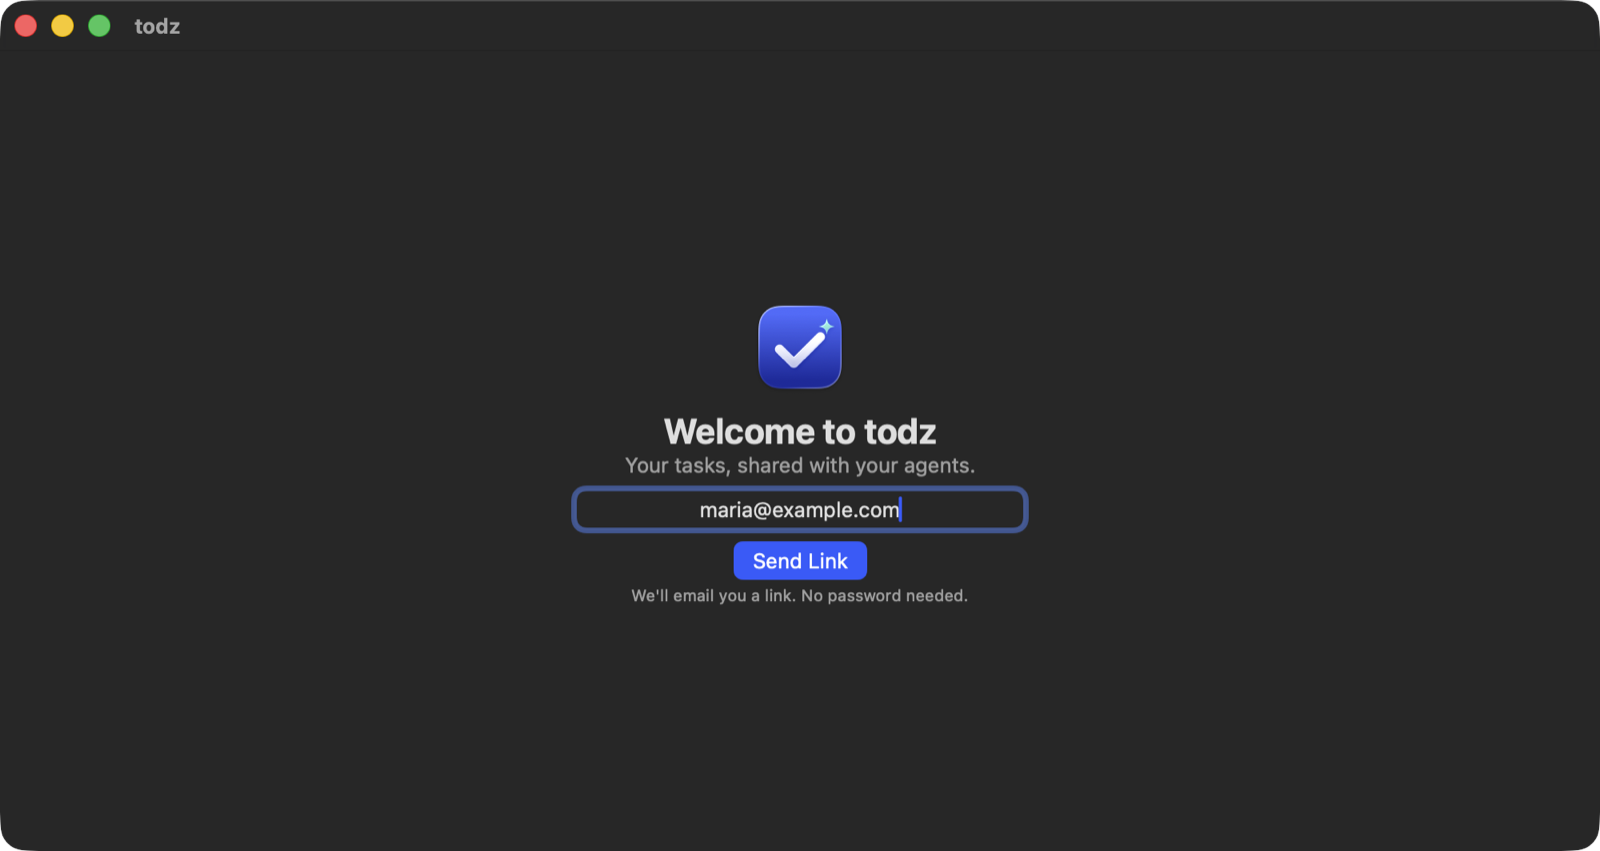
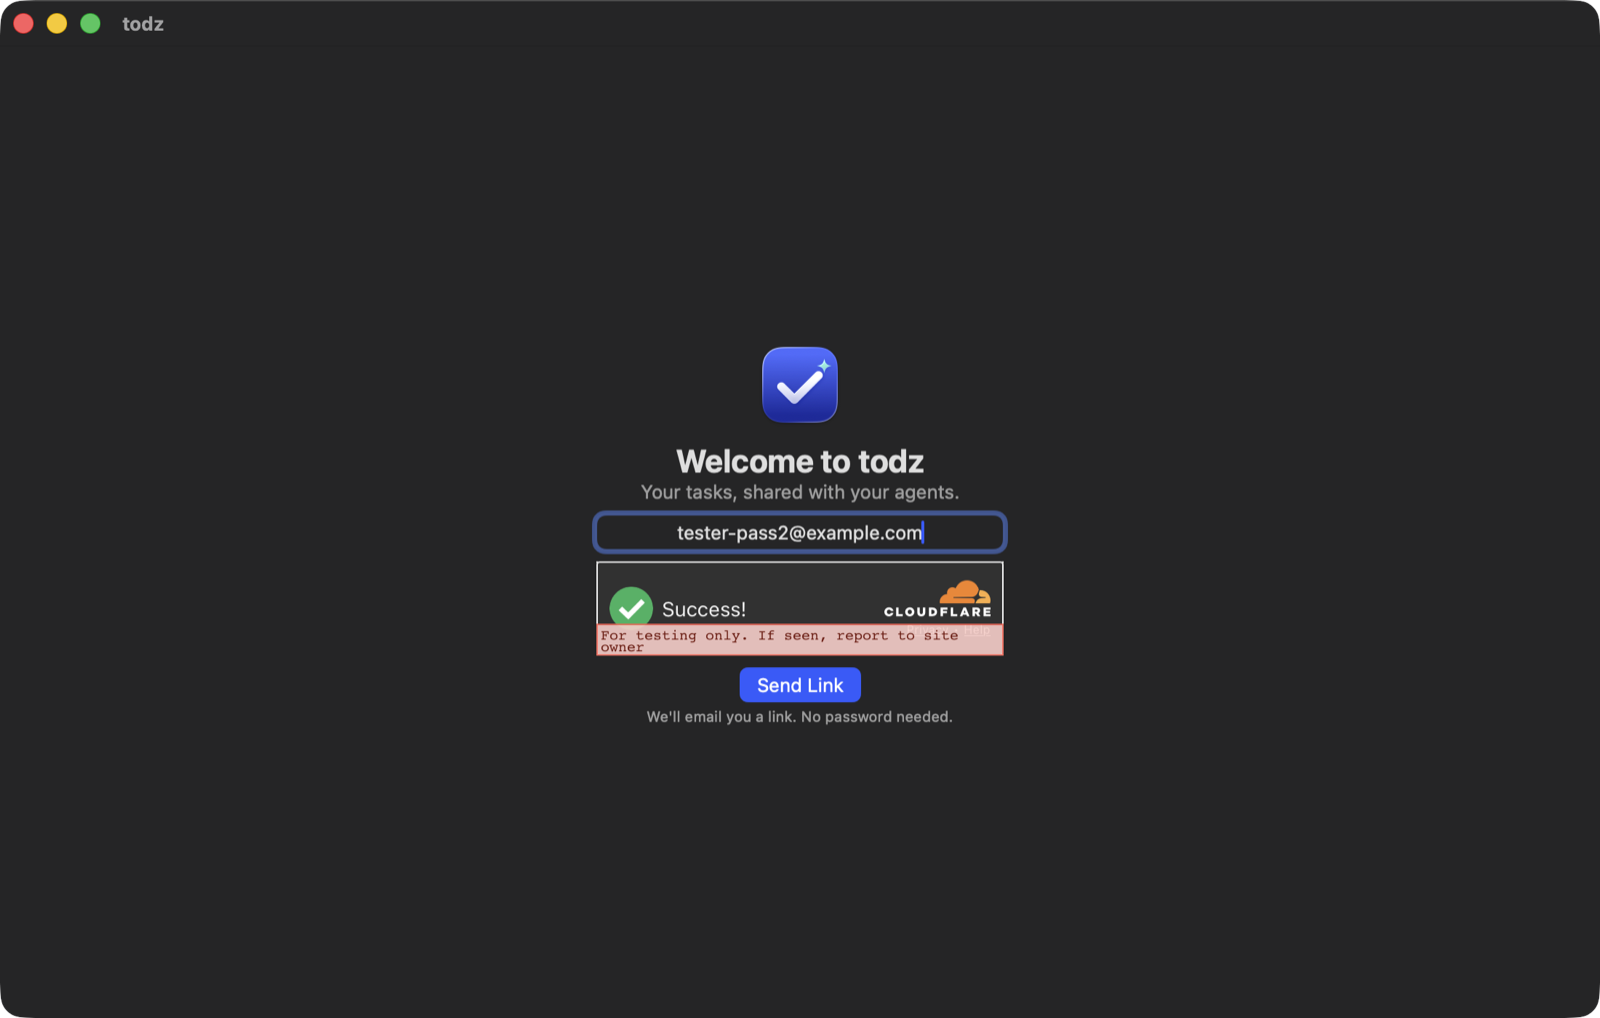
docs(sign-in-guard): the README's sign-in shots show the check

Changed region(s): [[0.3438, 0.3361, 0.6562, 0.7333], [0.0, 0.0, 0.125, 0.0611]]

diff --git a/README.md b/README.md
@@ -36,16 +36,16 @@ The approved design is in [docs/product](docs/product/); how each piece was buil
 
 |                                                                                                                   |                                                                                                                       |
 | ----------------------------------------------------------------------------------------------------------------- | --------------------------------------------------------------------------------------------------------------------- |
-| ![Sign in with your email](docs/screenshots/mac-app-shell/01-sign-in.png)<br>Sign in with your email | ![Name your first workspace](docs/screenshots/mac-app-shell/02-first-workspace.png)<br>Name your first workspace      |
+| ![Sign in with your email](docs/screenshots/mac-app-shell/01-sign-in.png)<br>Sign in with your email, after Cloudflare's check (here its development test widget) | ![Name your first workspace](docs/screenshots/mac-app-shell/02-first-workspace.png)<br>Name your first workspace      |
 | ![Today across projects](docs/screenshots/mac-app-shell/03-today-two-projects.png)<br>Today across projects       | ![An agent's task appears live](docs/screenshots/mac-sync/01-agent-add-live.png)<br>An agent's task appears live      |
 | ![Offline, changes waiting](docs/screenshots/mac-sync/02-offline-changes-waiting.png)<br>Offline, changes waiting | ![A refused change, explained](docs/screenshots/mac-sync/03-refused-change-banner.png)<br>A refused change, explained |
 | ![Today from the menu bar](docs/screenshots/menu-bar/01-today-popover.png)<br>Today from the menu bar             | ![Today ring](docs/screenshots/widgets/01-today-ring.png)<br>Today ring (rendered)                                    |
 | ![Next up](docs/screenshots/widgets/02-next-up.png)<br>Next up (rendered)                                         | ![Medium Today list](docs/screenshots/widgets/03-medium-today.png)<br>Medium Today list (rendered)                    |
 | ![Large Today list](docs/screenshots/widgets/04-large-today.png)<br>Large Today list (rendered)                   | ![Connect an agent](docs/screenshots/connect-an-agent/01-key-screen.png)<br>Connect an agent                          |
 | ![Today's open tasks on the menu bar icon](docs/screenshots/menu-bar-count/01-count.png)<br>Today's open tasks on the menu bar icon | ![An agent's tasks in a project, via Claude Code](docs/screenshots/v1-walk/01-agent-tasks-in-a-project.png)<br>An agent's tasks in a project, via Claude Code |
-| ![The app icon in macOS 26's six looks](docs/screenshots/brand-glass/01-app-icon-looks.png)<br>The Liquid Glass app icon: default, dark, clear and tinted (rendered by Icon Composer) | ![Sign in, dark](docs/screenshots/brand-glass/02-sign-in-dark.png)<br>Sign in, dark |
+| ![The app icon in macOS 26's six looks](docs/screenshots/brand-glass/01-app-icon-looks.png)<br>The Liquid Glass app icon: default, dark, clear and tinted (rendered by Icon Composer) | ![Sign in, dark](docs/screenshots/brand-glass/02-sign-in-dark.png)<br>Sign in, dark, with the check passed |
 | ![The widgets in dark](docs/screenshots/brand-glass/03-widgets-dark.png)<br>The widgets in dark (rendered) | ![Check your inbox](docs/screenshots/magic-link-sign-in/01-check-your-inbox.png)<br>Check your inbox: the link works 15 minutes, on this Mac only |
-| ![The sign-in link opens todz](docs/screenshots/magic-link-sign-in/02-sign-in-page.png)<br>The sign-in link hands off to todz | ![An incomplete link](docs/screenshots/magic-link-sign-in/03-link-incomplete.png)<br>An incomplete link says so |
+| ![The sign-in link opens todz](docs/screenshots/magic-link-sign-in/02-sign-in-page.png)<br>The sign-in link checks the browser, then hands off to todz | ![An incomplete link](docs/screenshots/magic-link-sign-in/03-link-incomplete.png)<br>An incomplete link says so |
 | ![The sign-in mail](docs/screenshots/transactional-email/01-sign-in-mail.png)<br>The sign-in mail | ![The welcome mail](docs/screenshots/transactional-email/02-welcome-mail.png)<br>The welcome mail |
 | ![The welcome mail, dark](docs/screenshots/transactional-email/03-welcome-mail-dark.png)<br>The welcome mail, dark | |
 
